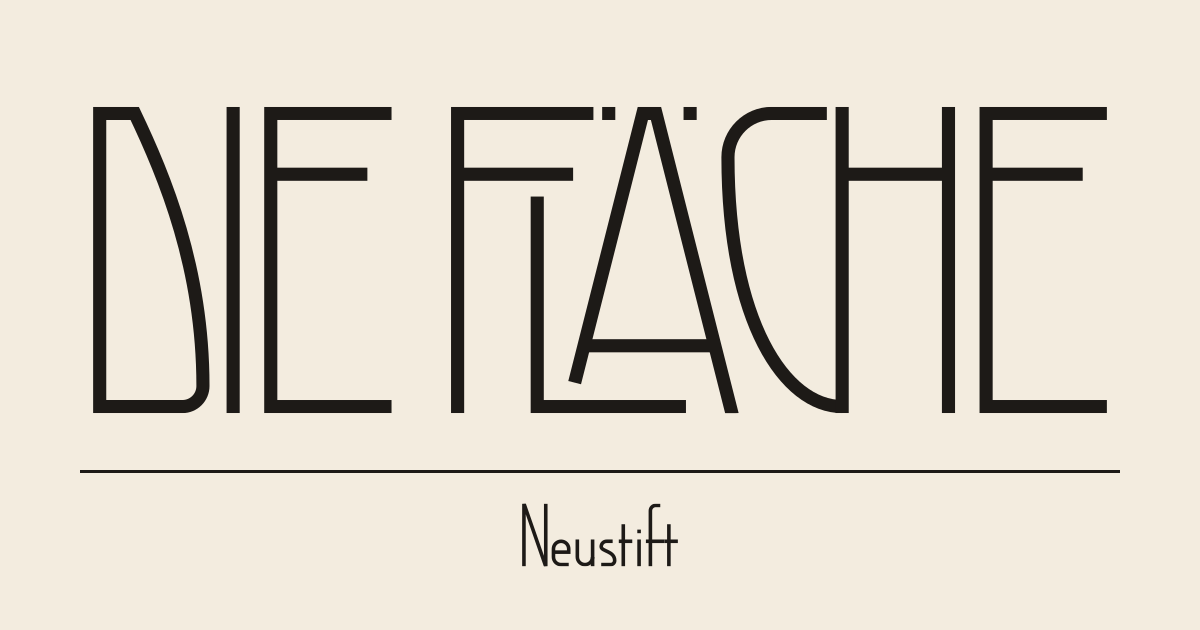
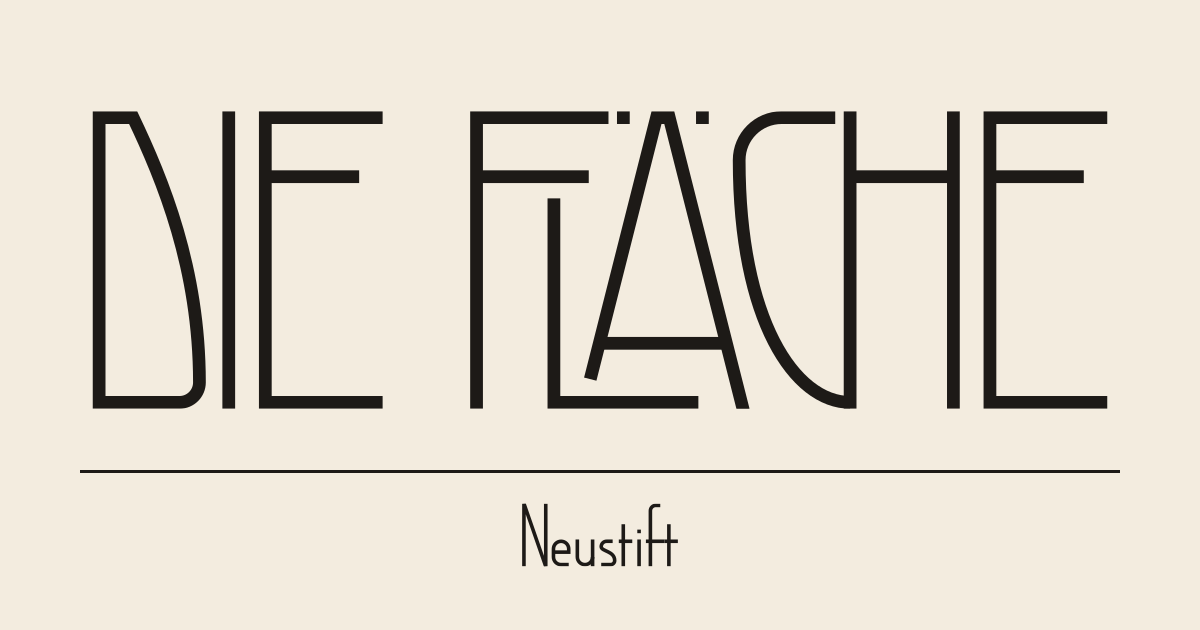
fix: Dev-Server nur lokal und nur public/-Dateien, alter Wortabstand wird neuer Standard, CI-Rechte, OG-Bild neu

Changed region(s): [[0.37, 0.1508, 0.925, 0.6635], [0.0617, 0.1508, 0.3392, 0.6635]]

diff --git a/tools/dev.ts b/tools/dev.ts
@@ -2,9 +2,13 @@
 import index from "../index.html";
 import font from "../font.html";
 
+import { readdirSync } from "node:fs";
+
+const PUBLIC = new Set(readdirSync("public")); // nur echte Dateinamen, kein ../
 const file = (p: string) => () => new Response(Bun.file(p));
 const server = Bun.serve({
   port: Number(process.env.PORT ?? 3457),
+  hostname: "localhost", // nur dieser Rechner
   development: true,
   routes: {
     "/": index,
@@ -12,10 +16,8 @@ const server = Bun.serve({
     "/Neustift-Regular.woff2": file("dist/Neustift-Regular.woff2"),
     "/Neustift-Regular.otf": file("dist/Neustift-Regular.otf"),
     "/OFL.txt": file("OFL.txt"),
-    "/:name": async (req) => {
-      const f = Bun.file(`public/${req.params.name}`);
-      return (await f.exists()) ? new Response(f) : new Response("Nicht gefunden", { status: 404 });
-    },
+    "/:name": (req) =>
+      PUBLIC.has(req.params.name) ? new Response(Bun.file(`public/${req.params.name}`)) : new Response("Nicht gefunden", { status: 404 }),
   },
 });
 console.log(`Werkstatt: ${server.url}  Font-Probe: ${server.url}font`);

diff --git a/src/presets.ts b/src/presets.ts
@@ -93,5 +93,5 @@ export function cleanState(raw: unknown, known: ReadonlySet<string>): State | nu
     (raw.selected === null || Number.isInteger(raw.selected)) &&
     typeof raw.showOverlay === "boolean" &&
     typeof raw.transparent === "boolean";
-  return ok ? { ...(raw as State), style: { ...FLAECHE_1902, ...(st as Partial<Style>) }, text: raw.text.normalize("NFC"), aspect: aspect ?? null } : null;
+  return ok ? { ...(raw as State), style: { ...FLAECHE_1902, ...(st as Partial<Style>), ...((st as Partial<Style>).wordGap === 136 ? { wordGap: FLAECHE_1902.wordGap } : {}) } /* alter Standard-Wortabstand 136 → neuer */, text: raw.text.normalize("NFC"), aspect: aspect ?? null } : null;
 }

diff --git a/test/presets-clean.test.ts b/test/presets-clean.test.ts
@@ -65,3 +65,9 @@ test("Seitenverhältnis: fehlend = frei (null), 2 gilt, −1/0/unendlich/Text ab
   expect(cleanPreset({ ...dieFlaeche, aspect: 2 }, KNOWN)!.aspect).toBe(2);
   for (const bad of [-1, 0, Infinity, "2"]) expect(cleanPreset({ ...dieFlaeche, aspect: bad }, KNOWN)).toBeNull();
 });
+
+test("gespeicherter alter Wortabstand 136 wird zum neuen Standard", () => {
+  const old = { ...valid, style: { ...valid.style, wordGap: 136 } };
+  expect(cleanState(old, KNOWN)!.style.wordGap).toBe(FLAECHE_1902.wordGap);
+  expect(cleanState({ ...valid, style: { ...valid.style, wordGap: 300 } }, KNOWN)!.style.wordGap).toBe(300);
+});
